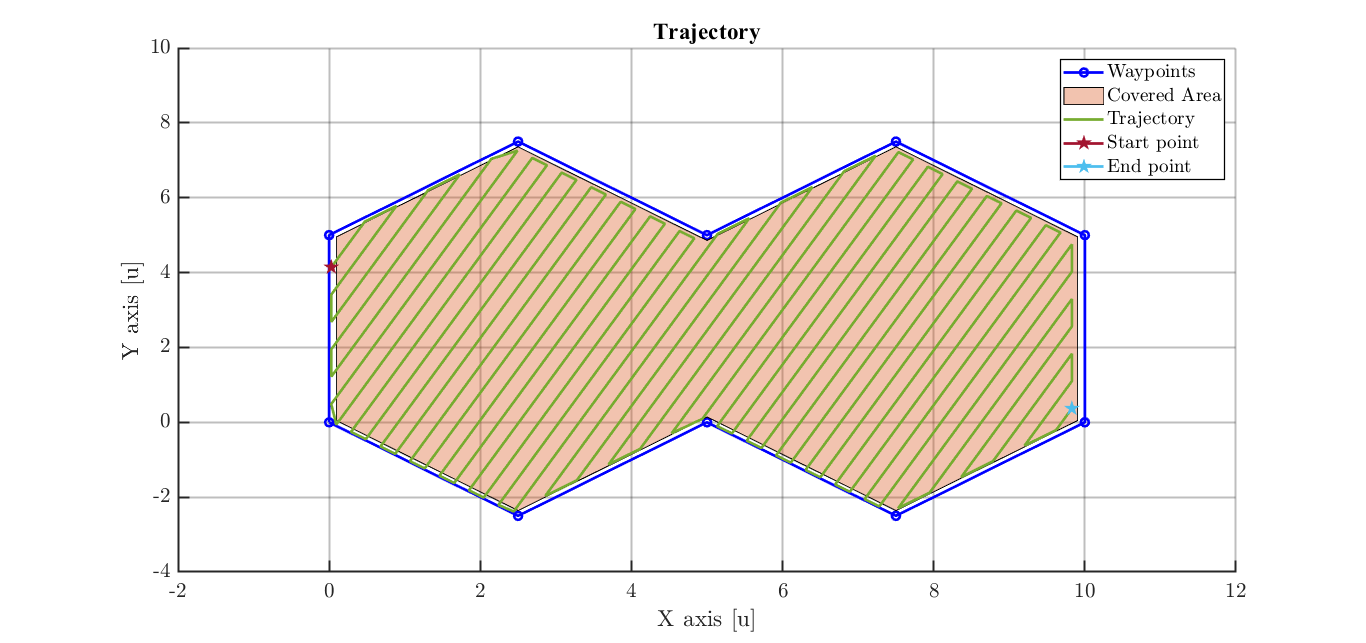
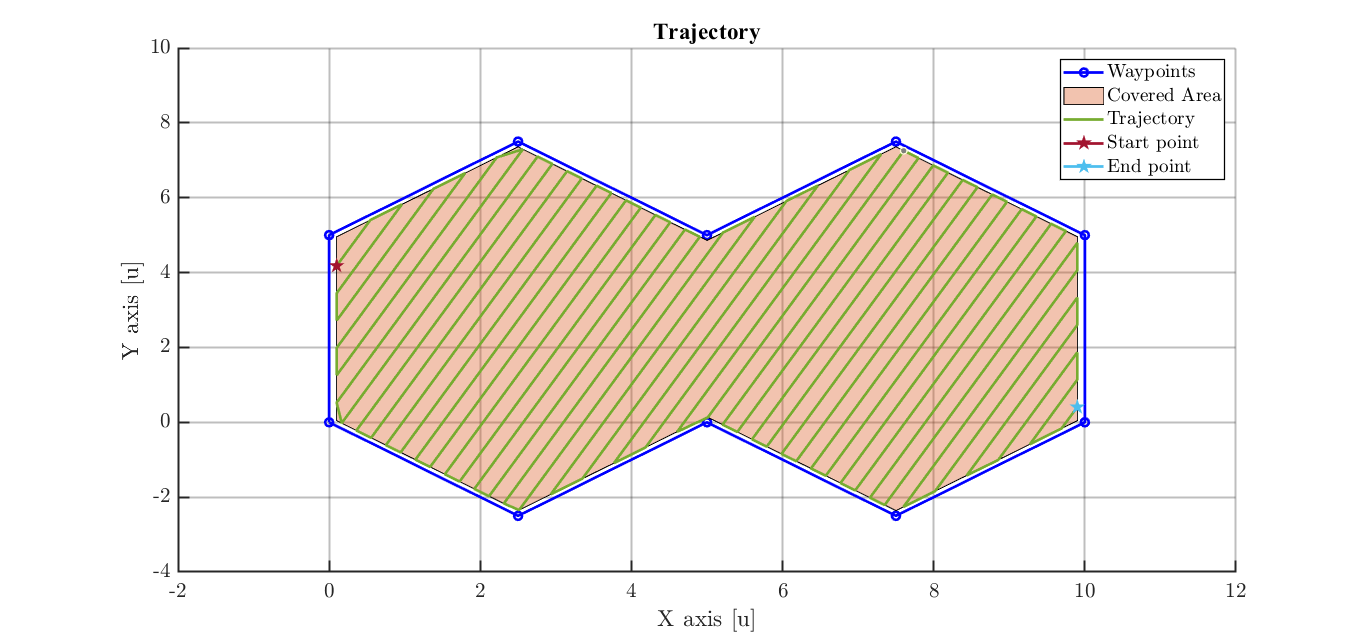
Center of rotation fix

Changed region(s): [[0.2152, 0.2177, 0.7994, 0.8087]]

diff --git a/matlab/geometry/rotatePolygon.m b/matlab/geometry/rotatePolygon.m
@@ -1,4 +1,4 @@
-function [rotatedPoints] = rotatePolygon(points, alfa)
+function [rotatedPoints] = rotatePolygon(points, center, alfa)
 % ROTATEPOLYGON Rotates a polygon in the plane by a given angle.
 %
 % The polygon is defined by vertices ordered clockwise. The rotation is
@@ -6,6 +6,7 @@ function [rotatedPoints] = rotatePolygon(points, alfa)
 %
 % Input:
 %   points : 2xN matrix containing the polygon vertices
+%   center : 2x1 array cointainig the rotation center
 %   alfa   : rotation angle in degrees
 %
 % Output:
@@ -13,20 +14,18 @@ function [rotatedPoints] = rotatePolygon(points, alfa)
 
     N = length(points);
 
-    centroid = mean(points,2); % Polygon centroid
-
     rotatedPoints = zeros(2,N); % Rotated vertices
 
     for i = 1:N
 
         % Translate point to centroid, rotate, and translate back
-        rotatedPoints(1,i) = (points(1,i) - centroid(1))*cosd(alfa) ...
-                           - (points(2,i) - centroid(2))*sind(alfa) ...
-                           + centroid(1);
+        rotatedPoints(1,i) = (points(1,i) - center(1))*cosd(alfa) ...
+                           - (points(2,i) - center(2))*sind(alfa) ...
+                           + center(1);
 
-        rotatedPoints(2,i) = (points(1,i) - centroid(1))*sind(alfa) ...
-                           + (points(2,i) - centroid(2))*cosd(alfa) ...
-                           + centroid(2);
+        rotatedPoints(2,i) = (points(1,i) - center(1))*sind(alfa) ...
+                           + (points(2,i) - center(2))*cosd(alfa) ...
+                           + center(2);
 
     end
 

diff --git a/matlab/core/generateCoverageTrajectory.m b/matlab/core/generateCoverageTrajectory.m
@@ -25,7 +25,8 @@ function [trajectoryPoints, coveredArea] = generateCoverageTrajectory(waypoints,
     %==============================================================
     % Step 2: Rotate polygon to align scan direction
     %==============================================================
-    rotatedPoints = rotatePolygon(reducedPoints,-psi);
+    centroid = mean(reducedPoints,2); % Polygon centroid
+    rotatedPoints = rotatePolygon(reducedPoints, centroid, -psi);
 
     %==============================================================
     % Step 3: Decompose polygon (remove concavities)
@@ -99,5 +100,5 @@ function [trajectoryPoints, coveredArea] = generateCoverageTrajectory(waypoints,
     %==============================================================
     % Step 5: Rotate trajectory back to original frame
     %==============================================================
-    trajectoryPoints = rotatePolygon(trajectoryPoints,psi);
+    trajectoryPoints = rotatePolygon(trajectoryPoints, centroid, psi);
 end
